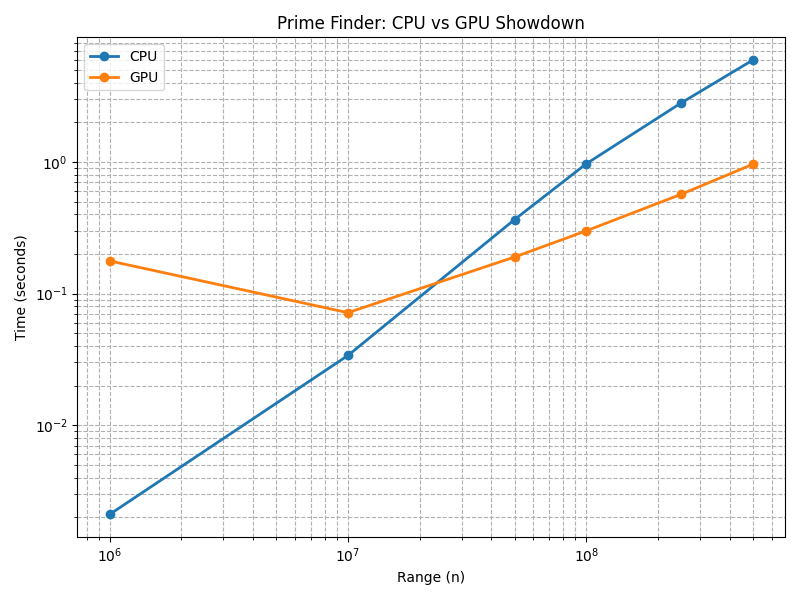
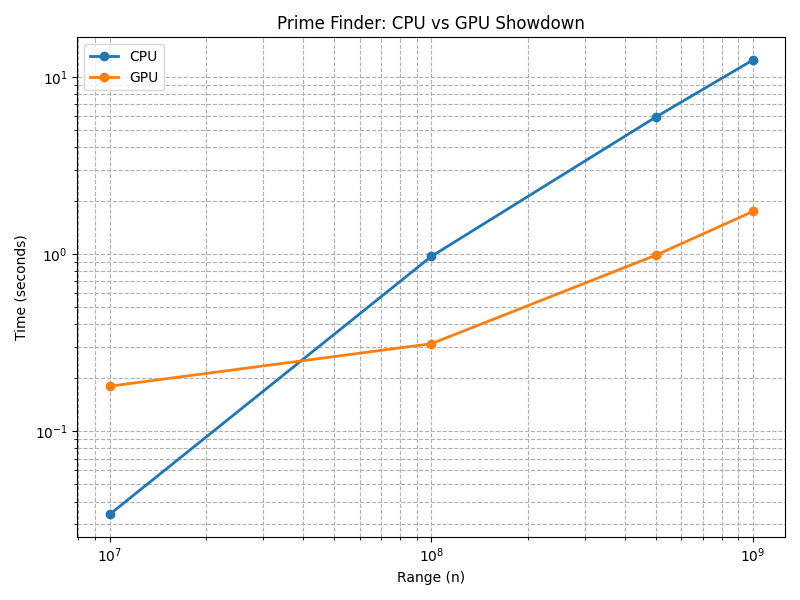
added more fun stuff.

diff --git a/Discrete_Structures/Ch04/prime_thunderdome/cpu_vs_gpu_prime_finder.py b/Discrete_Structures/Ch04/prime_thunderdome/cpu_vs_gpu_prime_finder.py
@@ -3,6 +3,9 @@ import numpy as np
 import cupy as cp
 import time, csv, argparse, sys
 
+import platform
+from datetime import datetime
+
 # ✅ Headless plotting setup
 import matplotlib
 matplotlib.use('Agg')
@@ -58,9 +61,21 @@ def run_benchmark(sizes, runs):
 
     return results
 
+
+# --- system tagging ---
+
+def system_tag():
+    cpu = platform.processor().replace(' ', '_')
+    gpu = cp.cuda.runtime.getDeviceProperties(0)['name'].decode().replace(' ', '_')
+    ts = datetime.now().strftime("%Y%m%d_%H%M%S")
+    return f"{platform.node()}_{cpu}_{gpu}_{ts}"
+
+
 # --- CSV LOGGER ---
+
 def save_results(results):
-    filename = f"prime_race_results_{int(time.time())}.csv"
+    tag = system_tag()
+    filename = f"prime_race_results_{tag}.csv"
     with open(filename, "w", newline="") as f:
         writer = csv.DictWriter(f, fieldnames=results[0].keys())
         writer.writeheader()
@@ -68,25 +83,26 @@ def save_results(results):
     print(f"\n📄 Results saved to {filename}")
     return filename
 
+
 # --- GRAPH MAKER ---
-def plot_results(results, outfile="prime_race_plot.png"):
+def plot_results(results):
+    tag = system_tag()
+    outfile = f"prime_race_plot_{tag}.png"
     sizes = sorted(set(r["range"] for r in results))
     cpu_avg = [np.mean([r["cpu_time"] for r in results if r["range"] == s]) for s in sizes]
     gpu_avg = [np.mean([r["gpu_time"] for r in results if r["range"] == s]) for s in sizes]
 
-    plt.figure(figsize=(8,6))
+    plt.figure(figsize=(9,7))
     plt.plot(sizes, cpu_avg, marker='o', label="CPU", linewidth=2)
     plt.plot(sizes, gpu_avg, marker='o', label="GPU", linewidth=2)
-    plt.xscale("log")
-    plt.yscale("log")
-    plt.xlabel("Range (n)")
-    plt.ylabel("Time (seconds)")
-    plt.title("Prime Finder: CPU vs GPU Showdown")
-    plt.legend()
-    plt.grid(True, which="both", ls="--")
-    plt.tight_layout()
-    plt.savefig(outfile)
+    plt.xscale("log"); plt.yscale("log")
+    plt.xlabel("Range (n)"); plt.ylabel("Time (seconds)")
+    plt.title(f"Prime Finder on {platform.node()} — Xeon vs Tesla T4")
+    plt.legend(); plt.grid(True, which="both", ls="--")
+    plt.tight_layout(); plt.savefig(outfile)
     print(f"📊 Plot saved to {outfile}")
+
+
 
 # --- MAIN ---
 if __name__ == "__main__":
